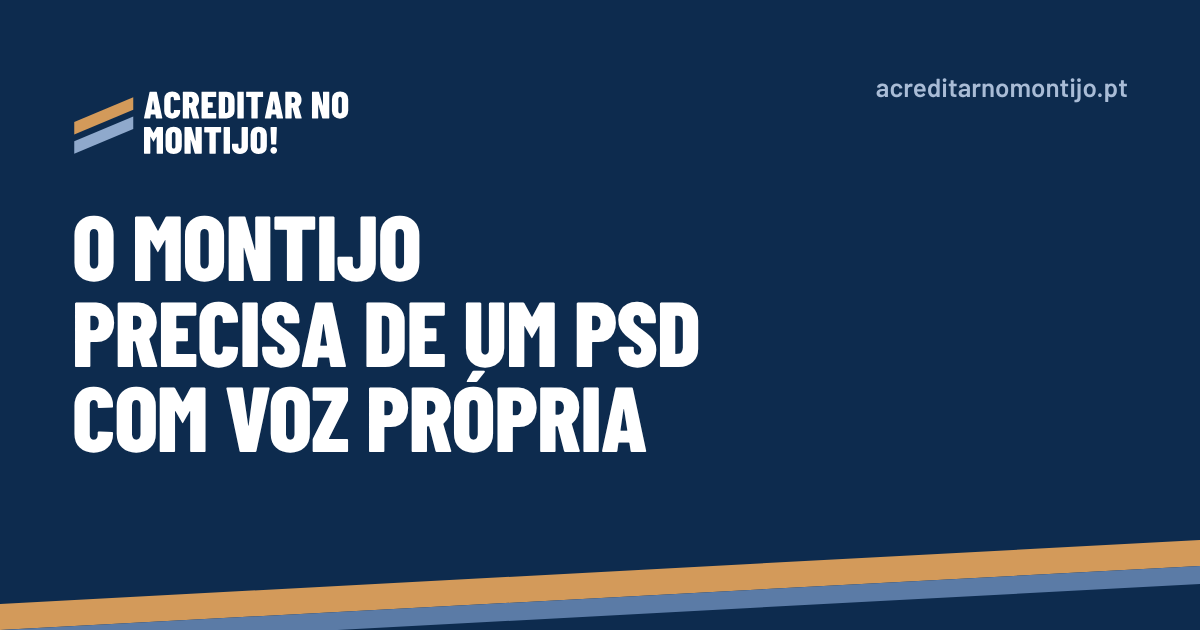
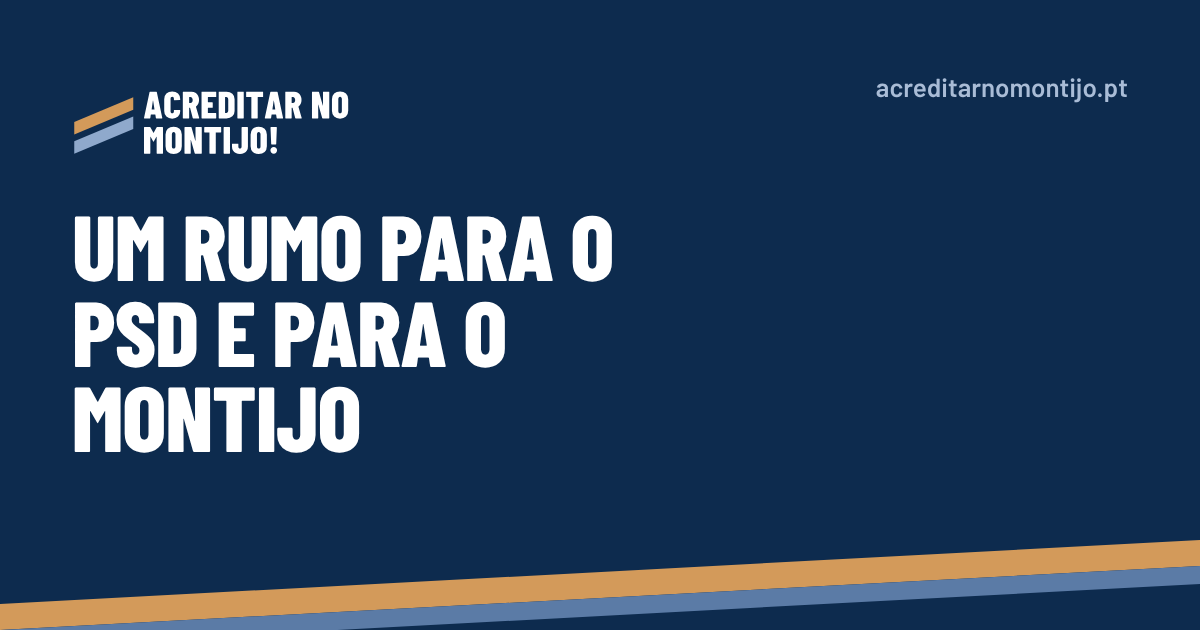
Reposicionar o site no projeto: empresas, centro, juventude e novos quadros
Retira as frases críticas à coligação e foca a candidatura em dar um rumo ao PSD e ao Montijo.

Claude-Session: https://claude.ai/code/session_01CCbZU9Lu9dDMmLT2dvyvMQ

Changed region(s): [[0.0617, 0.4825, 0.5858, 0.7238], [0.0617, 0.3317, 0.5242, 0.4524]]

diff --git a/index.html b/index.html
@@ -4,13 +4,13 @@
 <meta charset="utf-8">
 <meta name="viewport" content="width=device-width, initial-scale=1">
 <title>Acreditar no Montijo!</title>
-<meta name="description" content="Uma candidatura para trazer o PSD de volta: um partido com agenda e voz próprias, presente nas freguesias e preparado para 2029.">
+<meta name="description" content="Uma candidatura para dar um rumo ao PSD e ao Montijo: empresas, renovação do centro, juventude e novos quadros da sociedade civil.">
 <link rel="canonical" href="https://www.acreditarnomontijo.pt/">
 <meta property="og:type" content="website">
 <meta property="og:locale" content="pt_PT">
 <meta property="og:site_name" content="Acreditar no Montijo!">
 <meta property="og:title" content="Acreditar no Montijo!">
-<meta property="og:description" content="Uma candidatura para trazer o PSD de volta: um partido com agenda e voz próprias, presente nas freguesias e preparado para 2029.">
+<meta property="og:description" content="Uma candidatura para dar um rumo ao PSD e ao Montijo: empresas, renovação do centro, juventude e novos quadros da sociedade civil.">
 <meta property="og:url" content="https://www.acreditarnomontijo.pt/">
 <meta property="og:image" content="https://www.acreditarnomontijo.pt/assets/partilha.png">
 <meta property="og:image:width" content="1200">
@@ -42,11 +42,11 @@
   <div class="contentor abertura-grelha">
    <div>
     <p class="contexto">Uma candidatura para trazer o PSD de volta</p>
-    <h1 class="titulo-animado"><span class="palavra"><span style="--i:0">O</span></span> <span class="palavra"><span style="--i:1">Montijo</span></span> <span class="palavra"><span style="--i:2">precisa</span></span> <span class="palavra"><span style="--i:3">de</span></span> <span class="palavra"><span style="--i:4">um</span></span> <span class="palavra"><span style="--i:5">PSD</span></span> <span class="palavra"><span style="--i:6">com</span></span> <span class="palavra"><span style="--i:7">voz</span></span> <span class="palavra"><span style="--i:8">própria</span></span></h1>
-    <p class="entrada entra">Agenda própria, propostas assinadas e presença nas freguesias durante todo o ano. Para chegar a 2029 como alternativa, com projeto, com rosto e com obra.</p>
+    <h1 class="titulo-animado"><span class="palavra"><span style="--i:0">Um</span></span> <span class="palavra"><span style="--i:1">rumo</span></span> <span class="palavra"><span style="--i:2">para</span></span> <span class="palavra"><span style="--i:3">o</span></span> <span class="palavra"><span style="--i:4">PSD</span></span> <span class="palavra"><span style="--i:5">e</span></span> <span class="palavra"><span style="--i:6">para</span></span> <span class="palavra"><span style="--i:7">o</span></span> <span class="palavra"><span style="--i:8">Montijo</span></span></h1>
+    <p class="entrada entra">Empresas, um centro renovado e uma aposta clara na juventude. Uma candidatura que quer trazer novos quadros da sociedade civil para o PSD e para o Montijo.</p>
     <div class="botoes entra entra-2">
       <a class="botao" href="participar.html">Participar</a>
-      <a class="botao botao-linha" href="candidatura.html">Ler o que defendemos</a>
+      <a class="botao botao-linha" href="candidatura.html">Conhecer o projeto</a>
     </div>
    </div>
    <ul class="localidades" aria-label="Localidades do concelho do Montijo"><li>Montijo</li><li>Afonsoeiro</li><li>Atalaia</li><li>Alto Estanqueiro-Jardia</li><li>Sarilhos Grandes</li><li>Pegões</li><li>Santo Isidro de Pegões</li><li>Canha</li></ul>
@@ -57,29 +57,29 @@
 <section class="seccao nevoa padrao seccao-cartoes">
   <div class="contentor">
     <div class="cabeca cabeca-dupla">
-      <h2>O que defendemos</h2>
-      <p>Um partido que não se questiona em público acaba questionado nas urnas. Estas são as ideias que nos juntam.</p>
+      <h2>O projeto</h2>
+      <p>Quatro prioridades para dar rumo ao PSD e ao Montijo.</p>
     </div>
     <ul class="cartoes">
       <li class="cartao revelar">
-        <span class="icone"><svg viewBox="0 0 24 24" width="28" height="28" fill="none" stroke="currentColor" stroke-width="2" stroke-linecap="round" stroke-linejoin="round" aria-hidden="true" focusable="false"><path d="M3 10v4h3l6 4V6L6 10H3z"/><path d="M16 9a4 4 0 0 1 0 6M19 6.5a8 8 0 0 1 0 11"/></svg></span>
-        <h3>Agenda e voz próprias</h3>
-        <p>Um acordo de governo é um contrato, não é uma anestesia. O PSD assina as suas propostas e dá a cara por elas.</p>
+        <span class="icone"><svg viewBox="0 0 24 24" width="28" height="28" fill="none" stroke="currentColor" stroke-width="2" stroke-linecap="round" stroke-linejoin="round" aria-hidden="true" focusable="false"><rect x="3" y="7" width="18" height="13" rx="2"/><path d="M9 7V5a2 2 0 0 1 2-2h2a2 2 0 0 1 2 2v2"/><path d="M3 12.5h18"/><path d="M11 12.5v2h2v-2"/></svg></span>
+        <h3>Empresas e emprego</h3>
+        <p>Um Montijo ligado às empresas, que as ouve, as atrai e cria condições para que fiquem e cresçam no concelho.</p>
+      </li>
+      <li class="cartao revelar">
+        <span class="icone"><svg viewBox="0 0 24 24" width="28" height="28" fill="none" stroke="currentColor" stroke-width="2" stroke-linecap="round" stroke-linejoin="round" aria-hidden="true" focusable="false"><path d="M4 11v9h16v-9"/><path d="M3 10l2.2-6h13.6L21 10"/><path d="M3 10a3 3 0 0 0 6 0 3 3 0 0 0 6 0 3 3 0 0 0 6 0"/><path d="M10 20v-5h4v5"/></svg></span>
+        <h3>Renovar o centro</h3>
+        <p>A renovação do centro da cidade como prioridade, com comércio de proximidade e espaço público com vida.</p>
+      </li>
+      <li class="cartao revelar">
+        <span class="icone"><svg viewBox="0 0 24 24" width="28" height="28" fill="none" stroke="currentColor" stroke-width="2" stroke-linecap="round" stroke-linejoin="round" aria-hidden="true" focusable="false"><path d="M2 9l10-5 10 5-10 5-10-5z"/><path d="M6 11v5c3.5 2.2 8.5 2.2 12 0v-5"/><path d="M22 9v6"/></svg></span>
+        <h3>Apostar na juventude</h3>
+        <p>Dar aos jovens do concelho razões para ficar, participar e assumir responsabilidades.</p>
       </li>
       <li class="cartao cartao-destaque revelar">
-        <span class="icone"><svg viewBox="0 0 24 24" width="28" height="28" fill="none" stroke="currentColor" stroke-width="2" stroke-linecap="round" stroke-linejoin="round" aria-hidden="true" focusable="false"><path d="M4 5h10v7H8l-4 3V5z"/><path d="M14 9h6v8l-3-2h-6v-3"/></svg></span>
-        <h3>Uma concelhia que não diz sempre que sim</h3>
-        <p>Uma concelhia forte é a melhor aliada de quem governa. Quando a voz do partido e a do executivo se confundem, perde-se um ponto de vista.</p>
-      </li>
-      <li class="cartao revelar">
-        <span class="icone"><svg viewBox="0 0 24 24" width="28" height="28" fill="none" stroke="currentColor" stroke-width="2" stroke-linecap="round" stroke-linejoin="round" aria-hidden="true" focusable="false"><path d="M12 21s-7-6.2-7-11.5A7 7 0 0 1 19 9.5C19 14.8 12 21 12 21z"/><circle cx="12" cy="9.5" r="2.5"/></svg></span>
-        <h3>Nas freguesias o ano inteiro</h3>
-        <p>Estar presente todo o ano e não só em campanha, como já acontece em Canha, onde o PSD governa a Junta.</p>
-      </li>
-      <li class="cartao revelar">
-        <span class="icone"><svg viewBox="0 0 24 24" width="28" height="28" fill="none" stroke="currentColor" stroke-width="2" stroke-linecap="round" stroke-linejoin="round" aria-hidden="true" focusable="false"><path d="M20 11a8 8 0 0 0-14.3-4.9L4 8"/><path d="M4 4v4h4"/><path d="M4 13a8 8 0 0 0 14.3 4.9L20 16"/><path d="M20 20v-4h-4"/></svg></span>
-        <h3>Renovar antes que nos renovem</h3>
-        <p>Ter a coragem de se renovar antes que sejam os eleitores a fazê-lo por nós.</p>
+        <span class="icone"><svg viewBox="0 0 24 24" width="28" height="28" fill="none" stroke="currentColor" stroke-width="2" stroke-linecap="round" stroke-linejoin="round" aria-hidden="true" focusable="false"><circle cx="9" cy="8" r="3.5"/><path d="M2.5 20c0-3.6 2.9-6.5 6.5-6.5s6.5 2.9 6.5 6.5"/><circle cx="17" cy="9" r="2.8"/><path d="M15.6 14.1c3.2-.5 5.9 2 5.9 5.4"/></svg></span>
+        <h3>Novos quadros</h3>
+        <p>Atrair altos quadros da sociedade civil, com experiência e vontade de servir, para dar rumo ao PSD e ao Montijo.</p>
       </li>
     </ul>
   </div>
@@ -93,8 +93,8 @@
     </div>
     <div class="texto revelar">
       <h2>Porque nasce esta candidatura</h2>
-      <p>Nas autárquicas de 2025, o Montijo fechou quase três décadas de governação socialista e o PSD ajudou a virar a página.</p>
-      <p>Queremos que o PSD do Montijo tenha agenda e voz próprias, assine propostas e esteja nas freguesias todo o ano. Para chegar a 2029 como alternativa, com projeto, com rosto e com obra.</p>
+      <p>Esta candidatura quer dar um rumo ao PSD e ao Montijo, com um projeto ligado às empresas, à renovação do centro e à juventude.</p>
+      <p>Para isso, queremos abrir o partido a novos quadros e trazer para a vida política pessoas da sociedade civil com experiência e vontade de servir o concelho.</p>
       <div class="botoes"><a class="botao botao-escuro" href="candidatura.html">Conhecer a candidatura</a></div>
     </div>
   </div>
@@ -104,8 +104,7 @@
   <img class="fundo-foto paralaxe" src="https://upload.wikimedia.org/wikipedia/commons/thumb/0/0a/Moinho_de_Mar%C3%A9_do_Cais_das_Faluas_20.jpg/1280px-Moinho_de_Mar%C3%A9_do_Cais_das_Faluas_20.jpg" srcset="https://upload.wikimedia.org/wikipedia/commons/thumb/0/0a/Moinho_de_Mar%C3%A9_do_Cais_das_Faluas_20.jpg/960px-Moinho_de_Mar%C3%A9_do_Cais_das_Faluas_20.jpg 960w, https://upload.wikimedia.org/wikipedia/commons/thumb/0/0a/Moinho_de_Mar%C3%A9_do_Cais_das_Faluas_20.jpg/1280px-Moinho_de_Mar%C3%A9_do_Cais_das_Faluas_20.jpg 1280w, https://upload.wikimedia.org/wikipedia/commons/thumb/0/0a/Moinho_de_Mar%C3%A9_do_Cais_das_Faluas_20.jpg/1920px-Moinho_de_Mar%C3%A9_do_Cais_das_Faluas_20.jpg 1920w" sizes="100vw" alt="" decoding="async">
   <div class="contentor">
     <blockquote class="citacao revelar">
-      <p>Em 2021 ficámos a pouco mais de três centenas de votos de ganhar a Câmara. Em 2029, quem jogar para o empate perde.</p>
-      <footer>Pedro Ilhéu Oliveira, deputado municipal do PSD na Assembleia Municipal do Montijo</footer>
+      <p>Um PSD com projeto, com rosto e com obra que os montijenses reconheçam como sua.</p>
     </blockquote>
   </div>
 </section>
@@ -145,15 +144,15 @@
   <div class="contentor ajudar">
     <div class="texto revelar">
       <h2>Como podes ajudar</h2>
-      <p>Há três formas de dar força a esta candidatura. Escolhe a tua e nós tratamos do resto.</p>
+      <p>Profissional, empresário, estudante ou militante de longa data: há lugar para ti nesta candidatura.</p>
       <div class="botoes"><a class="botao botao-escuro" href="participar.html">Participar</a></div>
     </div>
     <ul class="cartoes-escada">
       <li class="cartao revelar">
-        <span class="icone"><svg viewBox="0 0 24 24" width="28" height="28" fill="none" stroke="currentColor" stroke-width="2" stroke-linecap="round" stroke-linejoin="round" aria-hidden="true" focusable="false"><circle cx="10" cy="8" r="4"/><path d="M3 20c0-3.9 3.1-7 7-7s7 3.1 7 7"/><path d="M19 8v6M16 11h6"/></svg></span>
-        <h3>Apoiar a candidatura</h3>
-        <p>Deixa o teu contacto e diz como queres ajudar.</p>
-        <a class="ligacao" href="participar.html#apoiar">Quero participar</a>
+        <span class="icone"><svg viewBox="0 0 24 24" width="28" height="28" fill="none" stroke="currentColor" stroke-width="2" stroke-linecap="round" stroke-linejoin="round" aria-hidden="true" focusable="false"><circle cx="9" cy="8" r="3.5"/><path d="M2.5 20c0-3.6 2.9-6.5 6.5-6.5s6.5 2.9 6.5 6.5"/><circle cx="17" cy="9" r="2.8"/><path d="M15.6 14.1c3.2-.5 5.9 2 5.9 5.4"/></svg></span>
+        <h3>Trazer a tua experiência</h3>
+        <p>Diz-nos a tua área e onde podes contribuir.</p>
+        <a class="ligacao" href="participar.html#apoiar">Quero contribuir</a>
       </li>
       <li class="cartao cartao-ambar revelar">
         <span class="icone"><svg viewBox="0 0 24 24" width="28" height="28" fill="none" stroke="currentColor" stroke-width="2" stroke-linecap="round" stroke-linejoin="round" aria-hidden="true" focusable="false"><rect x="3" y="5" width="18" height="14" rx="2"/><circle cx="9" cy="11" r="2.2"/><path d="M5.8 16c.6-1.6 1.8-2.4 3.2-2.4s2.6.8 3.2 2.4M15 10h3M15 13h3"/></svg></span>
@@ -177,7 +176,7 @@
       <img class="fundo-foto paralaxe" src="https://upload.wikimedia.org/wikipedia/commons/thumb/a/a9/Coreto%2C_Igreja_Matriz_do_Montijo%2C_Pra%C3%A7a_da_Rep%C3%BAblica_01.jpg/1280px-Coreto%2C_Igreja_Matriz_do_Montijo%2C_Pra%C3%A7a_da_Rep%C3%BAblica_01.jpg" srcset="https://upload.wikimedia.org/wikipedia/commons/thumb/a/a9/Coreto%2C_Igreja_Matriz_do_Montijo%2C_Pra%C3%A7a_da_Rep%C3%BAblica_01.jpg/960px-Coreto%2C_Igreja_Matriz_do_Montijo%2C_Pra%C3%A7a_da_Rep%C3%BAblica_01.jpg 960w, https://upload.wikimedia.org/wikipedia/commons/thumb/a/a9/Coreto%2C_Igreja_Matriz_do_Montijo%2C_Pra%C3%A7a_da_Rep%C3%BAblica_01.jpg/1280px-Coreto%2C_Igreja_Matriz_do_Montijo%2C_Pra%C3%A7a_da_Rep%C3%BAblica_01.jpg 1280w, https://upload.wikimedia.org/wikipedia/commons/thumb/a/a9/Coreto%2C_Igreja_Matriz_do_Montijo%2C_Pra%C3%A7a_da_Rep%C3%BAblica_01.jpg/1920px-Coreto%2C_Igreja_Matriz_do_Montijo%2C_Pra%C3%A7a_da_Rep%C3%BAblica_01.jpg 1920w" sizes="100vw" alt="" decoding="async">
       <div class="apelo-texto">
         <h2>Junta-te à candidatura</h2>
-        <p>Acreditar no Montijo é trabalho de muitos. Escreve-nos e diz onde queres ajudar.</p>
+        <p>Procuramos pessoas com experiência e vontade de servir o Montijo. Diz-nos onde queres ajudar.</p>
       </div>
       <div class="botoes">
         <a class="botao" href="participar.html">Participar</a>

diff --git a/candidatura.html b/candidatura.html
@@ -4,13 +4,13 @@
 <meta charset="utf-8">
 <meta name="viewport" content="width=device-width, initial-scale=1">
 <title>A candidatura | Acreditar no Montijo!</title>
-<meta name="description" content="Porque nasce a candidatura Acreditar no Montijo! e o que defende para o PSD do Montijo.">
+<meta name="description" content="O projeto da candidatura Acreditar no Montijo!: empresas, renovação do centro, juventude e novos quadros.">
 <link rel="canonical" href="https://www.acreditarnomontijo.pt/candidatura.html">
 <meta property="og:type" content="website">
 <meta property="og:locale" content="pt_PT">
 <meta property="og:site_name" content="Acreditar no Montijo!">
 <meta property="og:title" content="A candidatura">
-<meta property="og:description" content="Porque nasce a candidatura Acreditar no Montijo! e o que defende para o PSD do Montijo.">
+<meta property="og:description" content="O projeto da candidatura Acreditar no Montijo!: empresas, renovação do centro, juventude e novos quadros.">
 <meta property="og:url" content="https://www.acreditarnomontijo.pt/candidatura.html">
 <meta property="og:image" content="https://www.acreditarnomontijo.pt/assets/partilha.png">
 <meta property="og:image:width" content="1200">
@@ -41,8 +41,8 @@
   <img class="fundo-foto paralaxe" src="https://upload.wikimedia.org/wikipedia/commons/thumb/4/40/Frente_Ribeirinha_do_Montijo.jpg/1280px-Frente_Ribeirinha_do_Montijo.jpg" srcset="https://upload.wikimedia.org/wikipedia/commons/thumb/4/40/Frente_Ribeirinha_do_Montijo.jpg/960px-Frente_Ribeirinha_do_Montijo.jpg 960w, https://upload.wikimedia.org/wikipedia/commons/thumb/4/40/Frente_Ribeirinha_do_Montijo.jpg/1280px-Frente_Ribeirinha_do_Montijo.jpg 1280w, https://upload.wikimedia.org/wikipedia/commons/thumb/4/40/Frente_Ribeirinha_do_Montijo.jpg/1920px-Frente_Ribeirinha_do_Montijo.jpg 1920w" sizes="100vw" alt="" decoding="async">
   <div class="contentor">
     <p class="contexto">A candidatura</p>
-    <h1>Porque nasce esta candidatura</h1>
-    <p class="entrada">Um partido que não se questiona em público acaba questionado nas urnas.</p>
+    <h1>Um rumo para o PSD e para o Montijo</h1>
+    <p class="entrada">Empresas, um centro renovado, juventude e novos quadros da sociedade civil.</p>
   </div>
 </section>
 <svg class="faixa faixa-entrada" viewBox="0 0 1440 120" preserveAspectRatio="none" aria-hidden="true" focusable="false"><rect class="f-noite" x="0" y="0" width="1440" height="2"/><polygon class="f-noite" points="0,0 1440,0 1440,8 0,64"/><polygon class="f-laranja" points="0,64 1440,8 1440,34 0,90"/><polygon class="f-azul" points="0,90 1440,34 1440,52 0,108"/></svg>
@@ -50,7 +50,7 @@
   <div class="contentor com-lado">
     <aside class="lado" aria-label="Destaque">
       <blockquote class="citacao">
-        <p>Um acordo de governo é um contrato, não é uma anestesia.</p>
+        <p>Abrir o PSD a quem tem experiência e vontade de servir o Montijo.</p>
       </blockquote>
       <figure class="foto-lado">
         <img src="https://upload.wikimedia.org/wikipedia/commons/thumb/a/a9/Coreto%2C_Igreja_Matriz_do_Montijo%2C_Pra%C3%A7a_da_Rep%C3%BAblica_01.jpg/960px-Coreto%2C_Igreja_Matriz_do_Montijo%2C_Pra%C3%A7a_da_Rep%C3%BAblica_01.jpg" srcset="https://upload.wikimedia.org/wikipedia/commons/thumb/a/a9/Coreto%2C_Igreja_Matriz_do_Montijo%2C_Pra%C3%A7a_da_Rep%C3%BAblica_01.jpg/500px-Coreto%2C_Igreja_Matriz_do_Montijo%2C_Pra%C3%A7a_da_Rep%C3%BAblica_01.jpg 500w, https://upload.wikimedia.org/wikipedia/commons/thumb/a/a9/Coreto%2C_Igreja_Matriz_do_Montijo%2C_Pra%C3%A7a_da_Rep%C3%BAblica_01.jpg/960px-Coreto%2C_Igreja_Matriz_do_Montijo%2C_Pra%C3%A7a_da_Rep%C3%BAblica_01.jpg 960w" sizes="30vw" alt="Coreto e Igreja Matriz na Praça da República, Montijo" loading="lazy" decoding="async">
@@ -58,25 +58,23 @@
       </figure>
     </aside>
     <div class="texto">
-      <h2>Onde estamos</h2>
-      <p>Nas autárquicas de 2025, o Montijo fechou quase três décadas de governação socialista e o PSD ajudou a virar a página. O PSD entrou no acordo de governabilidade para levar o seu programa para a Câmara.</p>
-      <p>Um acordo de governo é um contrato, não é uma anestesia. Uma concelhia forte é a melhor aliada de quem governa, precisamente porque não diz sempre que sim. Quando a voz do partido e a do executivo se confundem, perde-se um ponto de vista e ninguém ganha com isso.</p>
+      <h2>Porque nasce esta candidatura</h2>
+      <p>Queremos dar um rumo ao PSD e ao Montijo. Para isso, propomos um projeto centrado em quatro prioridades: as empresas, a renovação do centro, a juventude e a abertura do partido a novos quadros.</p>
 
-      <h2>O que queremos</h2>
-      <p>Queremos que o PSD do Montijo se emancipe. Emancipar é:</p>
-      <ul>
-        <li>ter agenda e voz próprias;</li>
-        <li>assinar propostas e dar a cara por elas;</li>
-        <li>estar nas freguesias todo o ano, como já acontece em Canha, onde o PSD governa a Junta;</li>
-        <li>ter a coragem de se renovar antes que sejam os eleitores a renovar-nos.</li>
-      </ul>
+      <div class="titulo-icone"><span class="icone"><svg viewBox="0 0 24 24" width="28" height="28" fill="none" stroke="currentColor" stroke-width="2" stroke-linecap="round" stroke-linejoin="round" aria-hidden="true" focusable="false"><rect x="3" y="7" width="18" height="13" rx="2"/><path d="M9 7V5a2 2 0 0 1 2-2h2a2 2 0 0 1 2 2v2"/><path d="M3 12.5h18"/><path d="M11 12.5v2h2v-2"/></svg></span><h2>Empresas e emprego</h2></div>
+      <p>Um Montijo ligado às empresas, que as ouve, as atrai e cria condições para que fiquem e cresçam no concelho.</p>
 
-      <h2>Uma marca que o PSD pode trazer</h2>
-      <p>Um projeto para os mais velhos ganha força se for desenhado com eles e com os mais novos, juntando a Universidade Sénior, as IPSS e o Conselho Municipal de Juventude. É a ponte entre gerações que o PSD defende.</p>
+      <div class="titulo-icone"><span class="icone"><svg viewBox="0 0 24 24" width="28" height="28" fill="none" stroke="currentColor" stroke-width="2" stroke-linecap="round" stroke-linejoin="round" aria-hidden="true" focusable="false"><path d="M4 11v9h16v-9"/><path d="M3 10l2.2-6h13.6L21 10"/><path d="M3 10a3 3 0 0 0 6 0 3 3 0 0 0 6 0 3 3 0 0 0 6 0"/><path d="M10 20v-5h4v5"/></svg></span><h2>Renovar o centro</h2></div>
+      <p>A renovação do centro da cidade como prioridade, com comércio de proximidade e espaço público com vida.</p>
+
+      <div class="titulo-icone"><span class="icone"><svg viewBox="0 0 24 24" width="28" height="28" fill="none" stroke="currentColor" stroke-width="2" stroke-linecap="round" stroke-linejoin="round" aria-hidden="true" focusable="false"><path d="M2 9l10-5 10 5-10 5-10-5z"/><path d="M6 11v5c3.5 2.2 8.5 2.2 12 0v-5"/><path d="M22 9v6"/></svg></span><h2>Apostar na juventude</h2></div>
+      <p>Dar aos jovens do concelho razões para ficar, participar e assumir responsabilidades. Um projeto ganha força quando junta gerações: a Universidade Sénior, as IPSS e o Conselho Municipal de Juventude podem trabalhar lado a lado.</p>
+
+      <div class="titulo-icone"><span class="icone"><svg viewBox="0 0 24 24" width="28" height="28" fill="none" stroke="currentColor" stroke-width="2" stroke-linecap="round" stroke-linejoin="round" aria-hidden="true" focusable="false"><circle cx="9" cy="8" r="3.5"/><path d="M2.5 20c0-3.6 2.9-6.5 6.5-6.5s6.5 2.9 6.5 6.5"/><circle cx="17" cy="9" r="2.8"/><path d="M15.6 14.1c3.2-.5 5.9 2 5.9 5.4"/></svg></span><h2>Novos quadros</h2></div>
+      <p>Queremos atrair altos quadros da sociedade civil, pessoas com experiência profissional e vontade de servir, para darem rumo ao PSD e ao Montijo.</p>
 
       <h2>Para onde vamos</h2>
-      <p>Em 2021 ficámos a pouco mais de três centenas de votos de ganhar a Câmara. Em 2029, quem jogar para o empate perde. O PSD tem de chegar como alternativa, com projeto, com rosto e com obra que os montijenses reconheçam como sua.</p>
-
+      <p>Em 2021 o PSD ficou a pouco mais de três centenas de votos de ganhar a Câmara. Queremos chegar a 2029 com projeto, com rosto e com obra que os montijenses reconheçam como sua.</p>
     </div>
   </div>
 </section>
@@ -86,8 +84,8 @@
     <div class="apelo com-video revelar">
       <img class="fundo-foto paralaxe" src="https://upload.wikimedia.org/wikipedia/commons/thumb/1/10/Ba%C3%ADa_de_Sarilhos_Grandes_-_Portugal_%2848805305053%29.jpg/1280px-Ba%C3%ADa_de_Sarilhos_Grandes_-_Portugal_%2848805305053%29.jpg" srcset="https://upload.wikimedia.org/wikipedia/commons/thumb/1/10/Ba%C3%ADa_de_Sarilhos_Grandes_-_Portugal_%2848805305053%29.jpg/960px-Ba%C3%ADa_de_Sarilhos_Grandes_-_Portugal_%2848805305053%29.jpg 960w, https://upload.wikimedia.org/wikipedia/commons/thumb/1/10/Ba%C3%ADa_de_Sarilhos_Grandes_-_Portugal_%2848805305053%29.jpg/1280px-Ba%C3%ADa_de_Sarilhos_Grandes_-_Portugal_%2848805305053%29.jpg 1280w, https://upload.wikimedia.org/wikipedia/commons/thumb/1/10/Ba%C3%ADa_de_Sarilhos_Grandes_-_Portugal_%2848805305053%29.jpg/1920px-Ba%C3%ADa_de_Sarilhos_Grandes_-_Portugal_%2848805305053%29.jpg 1920w" sizes="100vw" alt="" decoding="async">
       <div class="apelo-texto">
-        <h2>Concordas? Junta-te.</h2>
-        <p>Diz-nos onde queres ajudar e em que freguesia vives.</p>
+        <h2>Traz a tua experiência</h2>
+        <p>Diz-nos a tua área profissional e onde podes ajudar.</p>
       </div>
       <div class="botoes">
         <a class="botao" href="participar.html">Participar</a>

diff --git a/participar.html b/participar.html
@@ -49,8 +49,8 @@
 <section class="seccao padrao" id="apoiar">
   <div class="contentor par">
     <div class="texto">
-      <div class="titulo-icone"><span class="icone"><svg viewBox="0 0 24 24" width="28" height="28" fill="none" stroke="currentColor" stroke-width="2" stroke-linecap="round" stroke-linejoin="round" aria-hidden="true" focusable="false"><circle cx="10" cy="8" r="4"/><path d="M3 20c0-3.9 3.1-7 7-7s7 3.1 7 7"/><path d="M19 8v6M16 11h6"/></svg></span><h2>Apoiar a candidatura</h2></div>
-      <p>Diz-nos quem és e como queres ajudar. Ao carregar em <strong>Enviar pelo meu email</strong>, abre-se o teu programa de email com a mensagem pronta para participa@acreditarnomontijo.pt.</p>
+      <div class="titulo-icone"><span class="icone"><svg viewBox="0 0 24 24" width="28" height="28" fill="none" stroke="currentColor" stroke-width="2" stroke-linecap="round" stroke-linejoin="round" aria-hidden="true" focusable="false"><circle cx="9" cy="8" r="3.5"/><path d="M2.5 20c0-3.6 2.9-6.5 6.5-6.5s6.5 2.9 6.5 6.5"/><circle cx="17" cy="9" r="2.8"/><path d="M15.6 14.1c3.2-.5 5.9 2 5.9 5.4"/></svg></span><h2>Apoiar a candidatura</h2></div>
+      <p>Procuramos pessoas com experiência e vontade de servir o Montijo. Diz-nos quem és, a tua área e como queres ajudar. Ao carregar em <strong>Enviar pelo meu email</strong>, abre-se o teu programa de email com a mensagem pronta para participa@acreditarnomontijo.pt.</p>
       <p>Este site não guarda nada do que escreves. A mensagem só segue se a enviares.</p>
     </div>
     <form class="formulario" id="form-participar" novalidate>
@@ -73,6 +73,10 @@
             <option>Fora do concelho</option>
         </select>
       </div>
+      <div class="campo">
+        <label for="area">Área profissional <span class="ajuda" style="display:inline;margin:0">(opcional)</span></label>
+        <input type="text" id="area" name="area" autocomplete="organization-title">
+      </div>
       <fieldset>
         <legend>És militante do PSD?</legend>
         <label class="opcao"><input type="radio" name="militante" value="Sim"> Sim</label>
@@ -81,6 +85,7 @@
       </fieldset>
       <fieldset>
         <legend>Como queres ajudar?</legend>
+        <label class="opcao"><input type="checkbox" name="ajuda" value="Contribuir com a minha experiência profissional"> Contribuir com a minha experiência profissional</label>
         <label class="opcao"><input type="checkbox" name="ajuda" value="Divulgar junto de amigos e família"> Divulgar junto de amigos e família</label>
         <label class="opcao"><input type="checkbox" name="ajuda" value="Estar em encontros nas freguesias"> Estar em encontros nas freguesias</label>
         <label class="opcao"><input type="checkbox" name="ajuda" value="Dar ideias e propostas"> Dar ideias e propostas</label>
@@ -206,6 +211,7 @@
       'Olá,', '', 'Quero participar na candidatura Acreditar no Montijo!', '',
       'Nome: ' + nome,
       'Onde vivo: ' + (form.localidade.value || 'Não indicado'),
+      'Área profissional: ' + (form.area.value.trim() || 'Não indicada'),
       'Militante do PSD: ' + militante, '',
       'Como quero ajudar:', ajuda.length ? ajuda.join('\n') : '- Não indicado'
     ];
